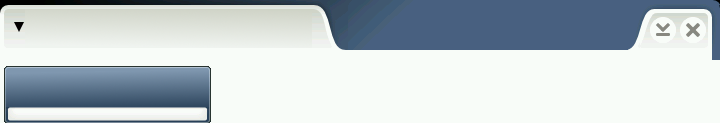
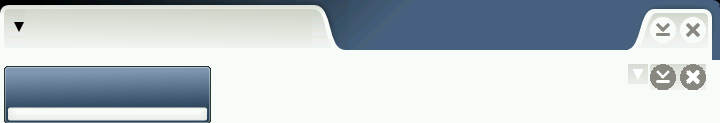
2007-11-13  Tomas Frydrych  <tf@o-hand.com>
* src/theme-engines/mb-wm-theme-png.c:
        * src/theme-engines/mb-wm-theme-xml.c:
        * src/theme-engines/mb-wm-theme-xml.h:
	Improved drawing of buttons in active state.

        * src/managers/maemo/theme/background.png:
        * src/managers/maemo/theme/theme.xml:
	Added active state buttons to the theme.

Changed region(s): [[0.8556, 0.5122, 1.0, 0.7317]]

diff --git a/src/theme-engines/mb-wm-theme-png.c b/src/theme-engines/mb-wm-theme-png.c
@@ -208,7 +208,8 @@ mb_wm_theme_png_paint_button (MBWMTheme *theme, MBWMDecorButton *button)
 
       if (!bdata)
 	{
-	  XRenderColor rclr;
+	  int a_x = b->active_x > -1 ? b->active_x : b->x;
+	  int a_y = b->active_y > -1 ? b->active_y : b->y;
 
 	  bdata = malloc (sizeof (struct ButtonData));
 
@@ -220,28 +221,11 @@ mb_wm_theme_png_paint_button (MBWMTheme *theme, MBWMDecorButton *button)
 					    DefaultVisual (xdpy, xscreen),
 					    DefaultColormap (xdpy, xscreen));
 
-	  rclr.red   = 0x7fff;
-	  rclr.green = 0x7fff;
-	  rclr.blue  = 0x7fff;
-	  rclr.alpha = 0x9fff;
-
-	  if (b->clr_fg.set)
-	    {
-	      rclr.red   = (int)(d->clr_fg.r * (double)0xffff);
-	      rclr.green = (int)(d->clr_fg.g * (double)0xffff);
-	      rclr.blue  = (int)(d->clr_fg.b * (double)0xffff);
-	    }
-
 	  XRenderComposite (xdpy, PictOpSrc,
 			    p_theme->xpic,
 			    None,
 			    XftDrawPicture (bdata->xftdraw_a),
-			    b->x, b->y, 0, 0, 0, 0, b->width, b->height);
-
-	  XRenderFillRectangle (xdpy, PictOpOver,
-				XftDrawPicture (bdata->xftdraw_a),
-				&rclr,
-				0, 0, b->width, b->height);
+			    a_x, a_y, 0, 0, 0, 0, b->width, b->height);
 
 	  bdata->xpix_i = XCreatePixmap(xdpy, decor->xwin,
 				      button->geom.width, button->geom.height,

diff --git a/src/theme-engines/mb-wm-theme.c b/src/theme-engines/mb-wm-theme.c
@@ -986,6 +986,14 @@ xml_element_start_cb (void *data, const char *tag, const char **expat_attr)
 	    {
 	      b->height = atoi (*(p+1));
 	    }
+	  else if (!strcmp (*p, "active-x"))
+	    {
+	      b->active_x = atoi (*(p+1));
+	    }
+	  else if (!strcmp (*p, "active-y"))
+	    {
+	      b->active_y = atoi (*(p+1));
+	    }
 
 	  p += 2;
 	}

diff --git a/src/theme-engines/mb-wm-theme-xml.h b/src/theme-engines/mb-wm-theme-xml.h
@@ -18,6 +18,10 @@ typedef struct Button
   int y;
   int width;
   int height;
+
+  /* Needed by png themes */
+  int active_x;
+  int active_y;
 } MBWMXmlButton;
 
 typedef struct Decor

diff --git a/src/theme-engines/mb-wm-theme-xml.c b/src/theme-engines/mb-wm-theme-xml.c
@@ -30,6 +30,8 @@ mb_wm_xml_button_new ()
 
   b->x = -1;
   b->y = -1;
+  b->active_x = -1;
+  b->active_y = -1;
 
   return b;
 }
